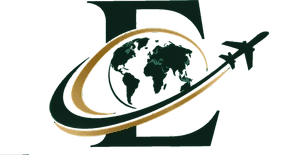
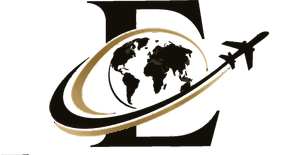
Rebuild the palette around beige, gold and white
The green read like every other travel site. This is beige, champagne gold
and white, anchored by a deep warm espresso — because cream and gold on
their own have no weight, every surface ends up the same value, and the
page goes flat. The anchor is brown-black rather than blue-grey, which
keeps it in the same family as the beige instead of looking like a default.

Gold is used two ways and the ramps keep them apart. The pale champagne is
a FILL, for surfaces, rules and buttons; it cannot carry small text. The
bronze steps are for TYPE. Every pair that carries words was checked:
white on the brand button 6.1:1, links on beige 5.4:1, body text 17.3:1,
impact figures 5.5:1 — all above the 4.5 threshold.

The logo is regenerated to match: espresso letterform with a champagne
orbit for white and beige grounds, warm beige with lifted gold for the
espresso ones. Each pixel's own tone is still carried onto the new ramp,
so the depth survives.

Twelve files were still carrying hard-coded navy and near-black hexes in
gradients, which is why the trip cards stayed blue after the tokens
changed. Those now use the palette too.

diff --git a/apps/web/src/app/globals.css b/apps/web/src/app/globals.css
@@ -16,66 +16,70 @@
 
 @theme {
   /* --- Colour -----------------------------------------------------------
-     The brand palette: deep forest green, champagne gold, warm beige, ivory
-     and charcoal. The ramps below are built around those five, so a component
-     written against `acacia` or `clay` picks the palette up without being
-     rewritten — the names describe the ROLE (brand, impact), the values carry
-     the identity.
+     Beige, gold and white, anchored by a deep warm espresso.
+
+     The anchor is the part that makes this read as luxury rather than washed
+     out: cream and gold on their own have no weight, and every surface ends up
+     the same value. A near-black with brown in it — never a blue-grey — gives
+     the type somewhere to sit and the gold something to shine against.
+
+     Gold is used two ways and they are not interchangeable. The pale champagne
+     is a FILL, for surfaces and rules; it cannot carry small text. The bronze
+     steps are for TYPE, dark enough to pass contrast on white. The ramps below
+     keep that distinction so a component cannot pick the wrong one by accident.
      ----------------------------------------------------------------------- */
 
-  /* Charcoal, for type. Each step keeps its contrast on ivory: ink-muted is
-     the lightest that still passes for body text. */
-  --color-ink: #292b27;
-  --color-ink-soft: #454940;
-  --color-ink-muted: #6b6f65;
-  --color-ink-faint: #9a9e93;
+  /* Espresso, for type. Warm rather than grey — the brown is what keeps it in
+     the same family as the beige instead of looking like a default. */
+  --color-ink: #1f1a14;
+  --color-ink-soft: #3d352a;
+  --color-ink-muted: #6e6253;
+  --color-ink-faint: #9c9080;
 
   --color-paper: #ffffff;
-  --color-sand: #faf7f0;
-  --color-sand-deep: #f1ebdd;
-  --color-line: #e7e0d2;
-  --color-line-strong: #d6cdb8;
+  --color-sand: #f7f1e6;
+  --color-sand-deep: #efe4d1;
+  --color-line: #e8dcc8;
+  --color-line-strong: #d7c8ac;
 
-  /* Acacia — the brand green, now deep forest. 300 is the light step, for
-     type on dark grounds; 600 is the brand colour itself. */
-  --color-acacia-50: #edf3f0;
-  --color-acacia-100: #d3e3db;
-  --color-acacia-300: #8bb0a1;
-  --color-acacia-500: #22594a;
-  --color-acacia-600: #183d32;
-  --color-acacia-700: #122f27;
-  --color-acacia-900: #0a1c17;
+  /* Acacia — the brand. Now antique gold: 300 is the light step for dark
+     grounds, 600 the brand colour itself, dark enough to carry white text. */
+  --color-acacia-50: #faf4e9;
+  --color-acacia-100: #f0e2c6;
+  --color-acacia-300: #d8bc84;
+  --color-acacia-500: #9a7636;
+  --color-acacia-600: #7c5d28;
+  --color-acacia-700: #5e4519;
+  --color-acacia-900: #3a2a0f;
 
-  /* Clay — reserved for impact, now champagne and bronze. 400 is the
-     champagne itself; 600 and 700 are dark enough to set type on ivory. */
+  /* Clay — impact. Champagne for fills, bronze for anything that is read. */
   --color-clay-50: #fbf5ea;
-  --color-clay-100: #f2e4c8;
+  --color-clay-100: #f3e5c9;
   --color-clay-400: #c5a46d;
-  --color-clay-500: #a9833f;
-  --color-clay-600: #8a6629;
-  --color-clay-700: #6b4d1c;
+  --color-clay-500: #a8803f;
+  --color-clay-600: #86631f;
+  --color-clay-700: #674b13;
 
-  /* The five, by name, for artwork and anything that needs them literally. */
+  /* The palette by name, for artwork and anything that needs it literally. */
   --color-beige: #e6d4b8;
   --color-champagne: #c5a46d;
-  --color-forest: #183d32;
   --color-ivory: #faf7f0;
-  --color-charcoal: #292b27;
+  --color-espresso: #1f1a14;
 
-  /* The package pages were built on navy and gold before this palette
-     existed. Rather than rewrite them, those names now resolve to forest and
-     champagne, so they match everything else. */
-  --color-navy-500: #22594a;
-  --color-navy-700: #183d32;
-  --color-navy-900: #0f241d;
+  /* The package pages were built on names from an earlier palette. Rather than
+     rewrite them, those names resolve here: espresso where they said navy,
+     champagne where they said gold. */
+  --color-navy-500: #3a2f22;
+  --color-navy-700: #241d14;
+  --color-navy-900: #15110c;
   --color-gold-300: #e3c68c;
   --color-gold-500: #c5a46d;
-  --color-gold-600: #a9833f;
+  --color-gold-600: #a8803f;
 
-  --color-success: #1d6248;
+  --color-success: #4e6b4f;
   --color-warning: #9a6b12;
-  --color-danger: #a32b1f;
-  --color-danger-soft: #fbeeec;
+  --color-danger: #9b3a2c;
+  --color-danger-soft: #f9eeeb;
 
   /* --- Type -------------------------------------------------------------- */
   --font-sans: var(--font-jakarta), 'Plus Jakarta Sans', -apple-system,

diff --git a/apps/web/src/app/page.tsx b/apps/web/src/app/page.tsx
@@ -150,7 +150,7 @@ export default async function HomePage() {
       {/* ------------------------------------------------------------------ */}
       <section className="relative flex min-h-[calc(100svh-4rem)] flex-col justify-end overflow-hidden pb-10 pt-32 md:min-h-[42rem] md:pb-16">
         <HeroMedia poster={HERO_IMAGE} alt={HERO_ALT} videos={HERO_VIDEOS} />
-        <div className="absolute inset-0 bg-gradient-to-t from-[#080a0b] via-[#080a0b]/55 to-[#080a0b]/35" />
+        <div className="absolute inset-0 bg-gradient-to-t from-[#15110c] via-[#15110c]/55 to-[#15110c]/35" />
 
 
         {/* The words arrive one line at a time, in pure CSS so they animate on
@@ -481,7 +481,7 @@ export default async function HomePage() {
             sizes="100vw"
             className="object-cover"
           />
-          <div className="absolute inset-0 bg-[#080a0b]/68" />
+          <div className="absolute inset-0 bg-[#15110c]/68" />
           <div className="shell relative py-24 text-center md:py-32">
             <h2 className="mx-auto max-w-3xl text-[2.25rem] font-extrabold leading-[1.05] tracking-[-0.03em] text-white text-balance md:text-[3.25rem]">
               Your next journey can mean more.

diff --git a/apps/web/src/app/packages/napuru-gateway/page.tsx b/apps/web/src/app/packages/napuru-gateway/page.tsx
@@ -54,12 +54,12 @@ export default function NapuruPage() {
               className="absolute inset-0 opacity-70"
               style={{
                 backgroundImage:
-                  'radial-gradient(110% 80% at 12% 0%, #1b2a5c 0%, transparent 58%), radial-gradient(85% 70% at 92% 25%, rgba(199,154,63,0.33) 0%, transparent 62%)',
+                  'radial-gradient(110% 80% at 12% 0%, #3a2f22 0%, transparent 58%), radial-gradient(85% 70% at 92% 25%, rgba(197,164,109,0.33) 0%, transparent 62%)',
               }}
             />
           </>
         )}
-        <div className="absolute inset-0 bg-gradient-to-t from-[#080a0b]/85 via-[#080a0b]/45 to-transparent" />
+        <div className="absolute inset-0 bg-gradient-to-t from-[#15110c]/85 via-[#15110c]/45 to-transparent" />
 
         <div className="shell relative">
           <Reveal>

diff --git a/apps/web/src/app/packages/arusha-escape/page.tsx b/apps/web/src/app/packages/arusha-escape/page.tsx
@@ -46,7 +46,7 @@ export default function ArushaPackagePage() {
           className="absolute inset-0 opacity-70"
           style={{
             backgroundImage:
-              'radial-gradient(120% 80% at 15% 0%, #1b2a5c 0%, transparent 55%), radial-gradient(90% 70% at 90% 20%, rgba(199,154,63,0.35) 0%, transparent 60%), radial-gradient(130% 90% at 50% 110%, #0d1733 20%, transparent 70%)',
+              'radial-gradient(120% 80% at 15% 0%, #3a2f22 0%, transparent 55%), radial-gradient(90% 70% at 90% 20%, rgba(197,164,109,0.35) 0%, transparent 60%), radial-gradient(130% 90% at 50% 110%, #15110c 20%, transparent 70%)',
           }}
         />
 

diff --git a/apps/web/src/app/private-trips/page.tsx b/apps/web/src/app/private-trips/page.tsx
@@ -350,7 +350,7 @@ export default function PrivateTripsPage() {
             sizes="100vw"
             className="object-cover"
           />
-          <div className="absolute inset-0 bg-[#080a0b]/55" />
+          <div className="absolute inset-0 bg-[#15110c]/55" />
           <div className="shell absolute inset-0 flex flex-col justify-center">
             <Eyebrow className="text-white/55">Private &amp; custom</Eyebrow>
             <h1 className="mt-3 max-w-2xl text-[2.25rem] font-extrabold leading-[1.05] tracking-[-0.03em] text-white text-balance md:text-[3.25rem]">

diff --git a/apps/web/src/components/packages/FeaturedPackage.tsx b/apps/web/src/components/packages/FeaturedPackage.tsx
@@ -25,7 +25,7 @@ export function FeaturedPackage() {
             className="absolute inset-0 opacity-80 transition-opacity duration-500 group-hover:opacity-100"
             style={{
               backgroundImage:
-                'radial-gradient(100% 70% at 10% 0%, #1b2a5c 0%, transparent 60%), radial-gradient(80% 90% at 95% 100%, rgba(199,154,63,0.4) 0%, transparent 60%)',
+                'radial-gradient(100% 70% at 10% 0%, #3a2f22 0%, transparent 60%), radial-gradient(80% 90% at 95% 100%, rgba(197,164,109,0.4) 0%, transparent 60%)',
             }}
           />
 

diff --git a/apps/web/src/components/packages/PackageCard.tsx b/apps/web/src/components/packages/PackageCard.tsx
@@ -35,7 +35,7 @@ export function PackageCard({ trip, priority }: { trip: UpcomingTrip; priority?:
             className="absolute inset-0"
             style={{
               backgroundImage:
-                'radial-gradient(100% 80% at 15% 0%, #1b2a5c 0%, transparent 60%), radial-gradient(85% 80% at 90% 100%, rgba(199,154,63,0.42) 0%, transparent 62%)',
+                'radial-gradient(100% 80% at 15% 0%, #3a2f22 0%, transparent 60%), radial-gradient(85% 80% at 90% 100%, rgba(197,164,109,0.42) 0%, transparent 62%)',
             }}
           />
         )}

diff --git a/apps/web/src/app/operators/page.tsx b/apps/web/src/app/operators/page.tsx
@@ -76,7 +76,7 @@ export default function OperatorsPage() {
           sizes="100vw"
           className="object-cover"
         />
-        <div className="absolute inset-0 bg-gradient-to-t from-[#080a0b] via-[#080a0b]/55 to-[#080a0b]/25" />
+        <div className="absolute inset-0 bg-gradient-to-t from-[#15110c] via-[#15110c]/55 to-[#15110c]/25" />
 
         <div className="shell relative">
           <Eyebrow className="text-white/55">For tour operators</Eyebrow>

diff --git a/apps/web/src/app/safari/page.tsx b/apps/web/src/app/safari/page.tsx
@@ -77,7 +77,7 @@ export default async function SafariPage() {
           sizes="100vw"
           className="object-cover"
         />
-        <div className="absolute inset-0 bg-gradient-to-t from-[#080a0b] via-[#080a0b]/55 to-[#080a0b]/25" />
+        <div className="absolute inset-0 bg-gradient-to-t from-[#15110c] via-[#15110c]/55 to-[#15110c]/25" />
 
         <div className="shell relative">
           <Eyebrow className="text-white/55">Safari</Eyebrow>

diff --git a/apps/web/src/app/impact/page.tsx b/apps/web/src/app/impact/page.tsx
@@ -90,7 +90,7 @@ export default async function ImpactPage({
           sizes="100vw"
           className="object-cover"
         />
-        <div className="absolute inset-0 bg-gradient-to-t from-[#080a0b] via-[#080a0b]/60 to-[#080a0b]/30" />
+        <div className="absolute inset-0 bg-gradient-to-t from-[#15110c] via-[#15110c]/60 to-[#15110c]/30" />
 
         <div className="shell relative">
           <Eyebrow className="text-white/55">Impact</Eyebrow>

diff --git a/apps/web/src/components/trips/TripGallery.tsx b/apps/web/src/components/trips/TripGallery.tsx
@@ -75,7 +75,7 @@ export function TripGallery({ images, title }: { images: string[]; title: string
 
       {lightbox !== null && (
         <div
-          className="fixed inset-0 z-[70] flex animate-fade flex-col bg-[#080a0b]/97"
+          className="fixed inset-0 z-[70] flex animate-fade flex-col bg-[#15110c]/97"
           role="dialog"
           aria-modal="true"
           aria-label={`${title} photographs`}

diff --git a/apps/web/src/app/impact/mkuranga-outreach/page.tsx b/apps/web/src/app/impact/mkuranga-outreach/page.tsx
@@ -33,7 +33,7 @@ export default function MkurangaPage() {
           sizes="100vw"
           className="object-cover"
         />
-        <div className="absolute inset-0 bg-gradient-to-t from-[#080a0b] via-[#080a0b]/60 to-[#080a0b]/25" />
+        <div className="absolute inset-0 bg-gradient-to-t from-[#15110c] via-[#15110c]/60 to-[#15110c]/25" />
 
         <div className="shell relative">
           <Reveal>
